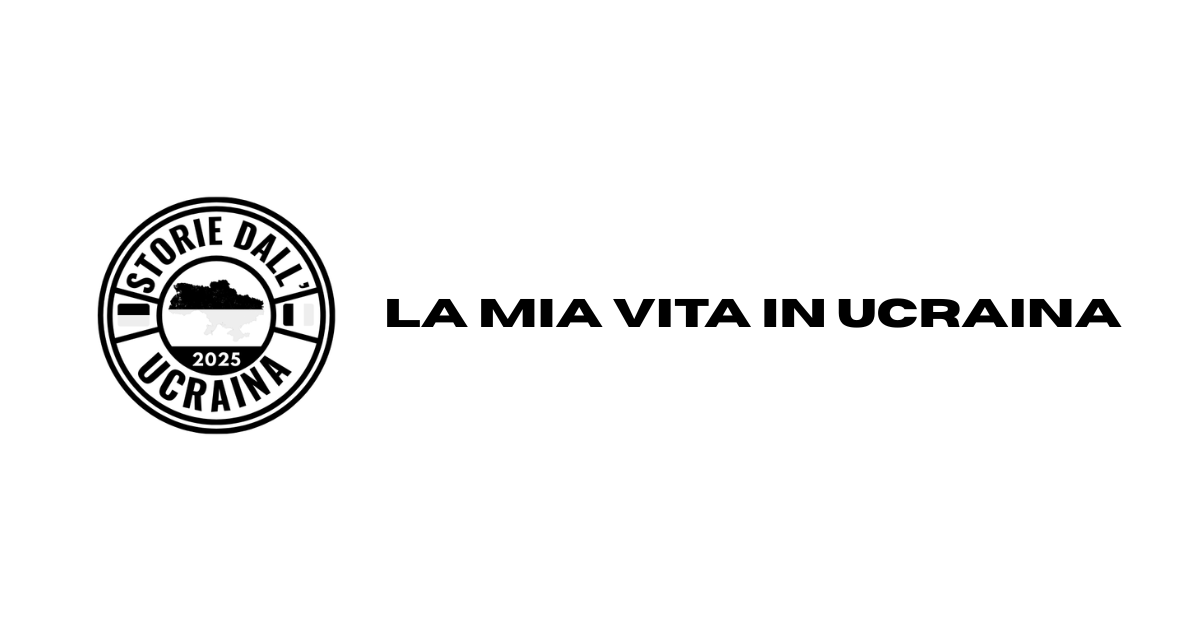
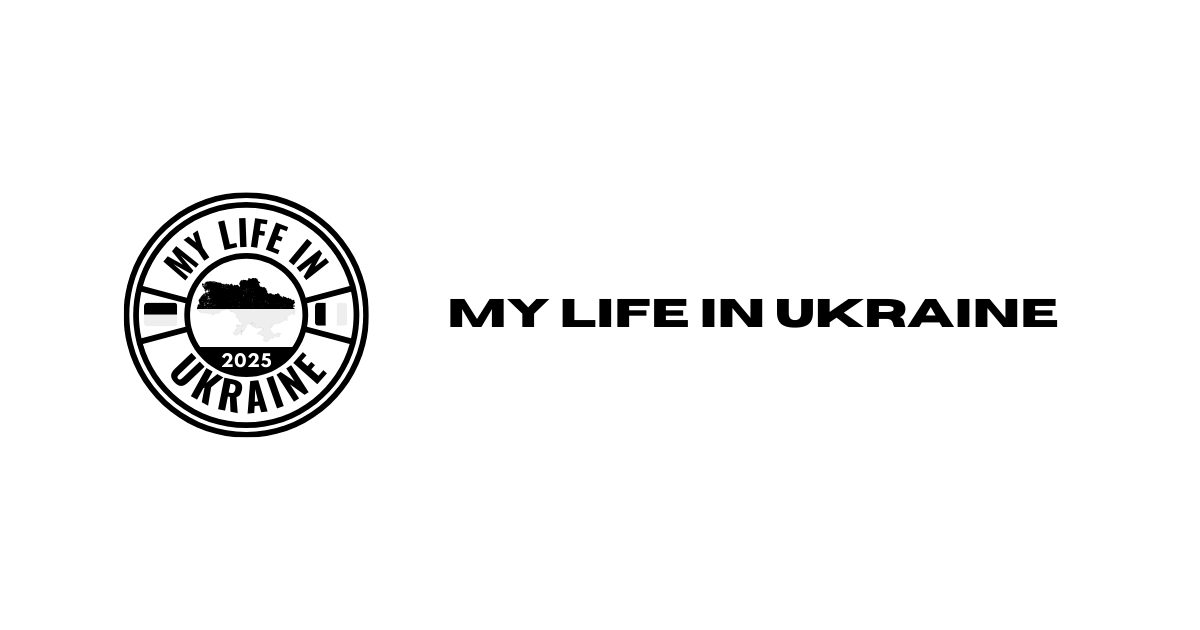
Fix issue with locale always switching to English on Blog page

Changed region(s): [[0.0617, 0.3016, 0.925, 0.6937]]

diff --git a/src/app/[locale]/layout.js b/src/app/[locale]/layout.js
@@ -45,13 +45,17 @@ export default async function LocaleLayout({ children, params }) {
   const messages = (await import(`messages/${locale}.json`)).default;
 
   return (
-    <NextIntlClientProvider locale={locale} messages={messages}>
-      <div className={styles.pageContainer}>
-        <Navbar />
-        <div className={styles.mainContent}>{children}</div>
-        <Footer />
-      </div>
-      <Analytics />
-    </NextIntlClientProvider>
+    <html lang={locale} className={styles.mainWrapper}>
+      <body className={styles.bodyWrapper} suppressHydrationWarning>
+        <NextIntlClientProvider locale={locale} messages={messages}>
+          <div className={styles.pageContainer}>
+            <Navbar />
+            <div className={styles.mainContent}>{children}</div>
+            <Footer />
+          </div>
+          <Analytics />
+        </NextIntlClientProvider>
+      </body>
+    </html>
   );
 }

diff --git a/src/app/layout.js b/src/app/layout.js
@@ -1,11 +1,5 @@
 import styles from "./layout.module.css";
 
 export default async function RootLayout({ children }) {
-  return (
-    <html lang="it" className={styles.mainWrapper}>
-      <body className={styles.bodyWrapper} suppressHydrationWarning>
-        {children}
-      </body>
-    </html>
-  );
+  return <>{children}</>;
 }

diff --git a/src/app/[locale]/page.js b/src/app/[locale]/page.js
@@ -6,7 +6,7 @@ import styles from "./page.module.css";
 import { useEffect } from "react";
 import { useTranslations } from "next-intl";
 
-import Link from "next/link";
+import { Link } from "@/src/i18n/routing";
 
 import AOS from "aos";
 import "aos/dist/aos.css";

diff --git a/src/app/[locale]/blog/page.js b/src/app/[locale]/blog/page.js
@@ -1,6 +1,6 @@
 export const dynamic = "force-dynamic";
 
-import { Link } from "@/src/i18n/navigation";
+import { Link } from "@/src/i18n/routing";
 import { fetchPosts } from "lib/fetchPosts";
 
 import styles from "./page.module.css";

diff --git a/src/app/[locale]/about/page.js b/src/app/[locale]/about/page.js
@@ -1,7 +1,7 @@
 "use client";
 
 import styles from "./page.module.css";
-import Link from "next/link";
+import { Link } from "@/src/i18n/routing";
 import { useTranslations } from "next-intl";
 
 import { useEffect } from "react";
